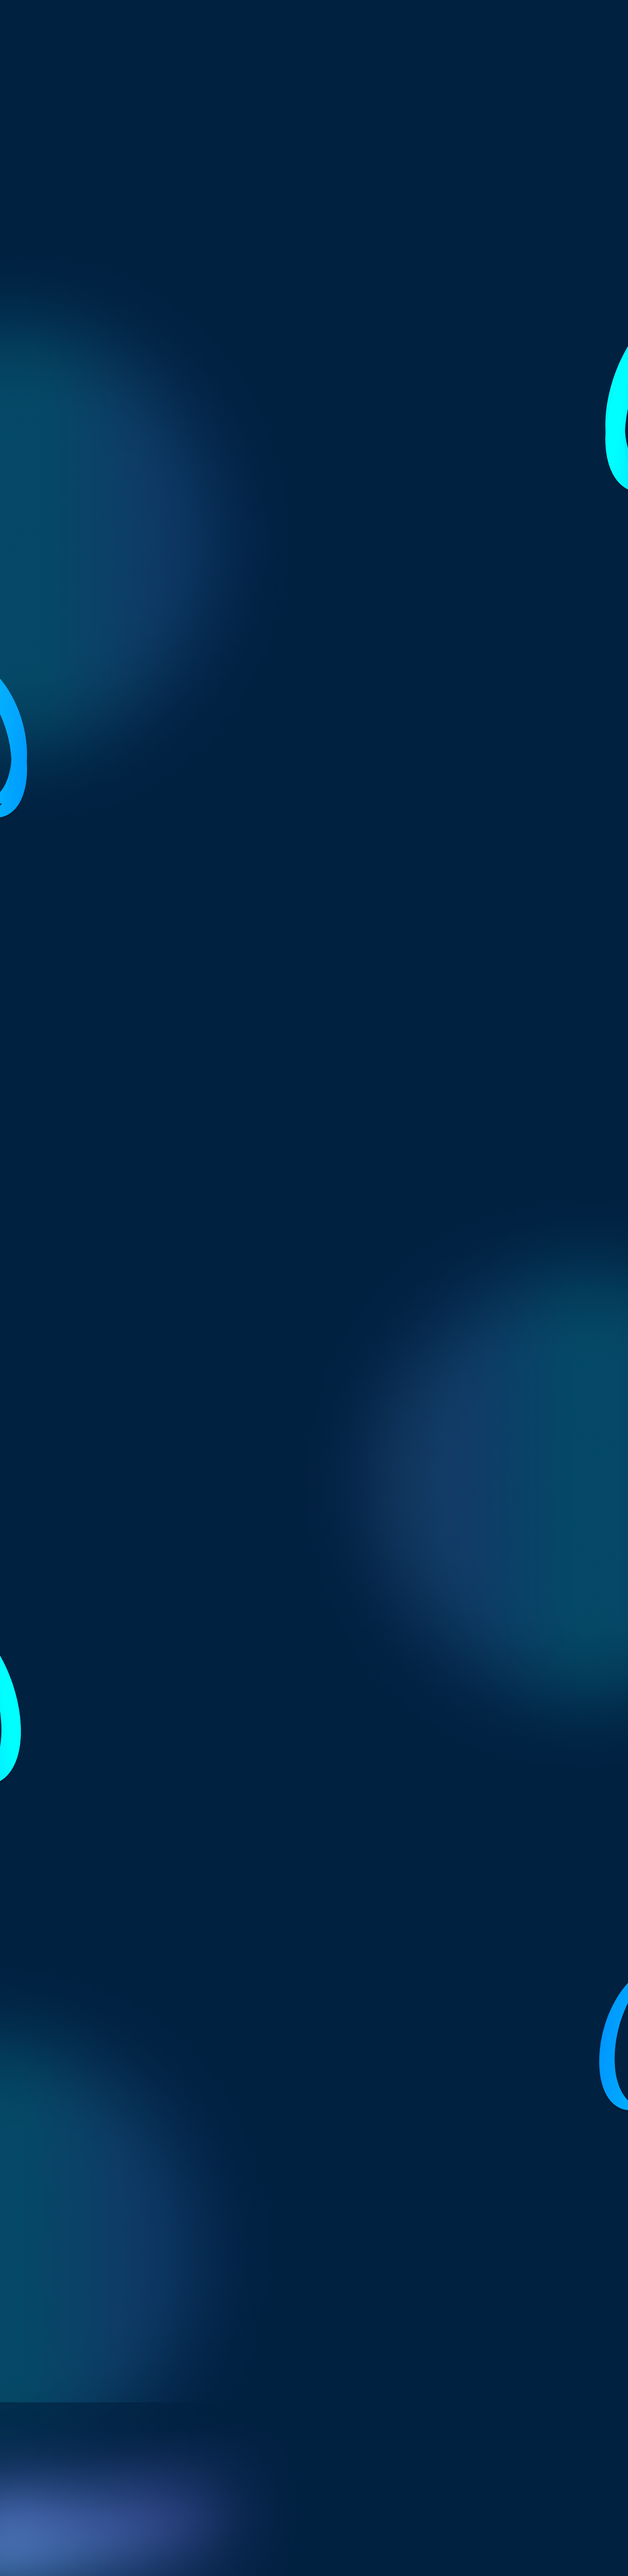
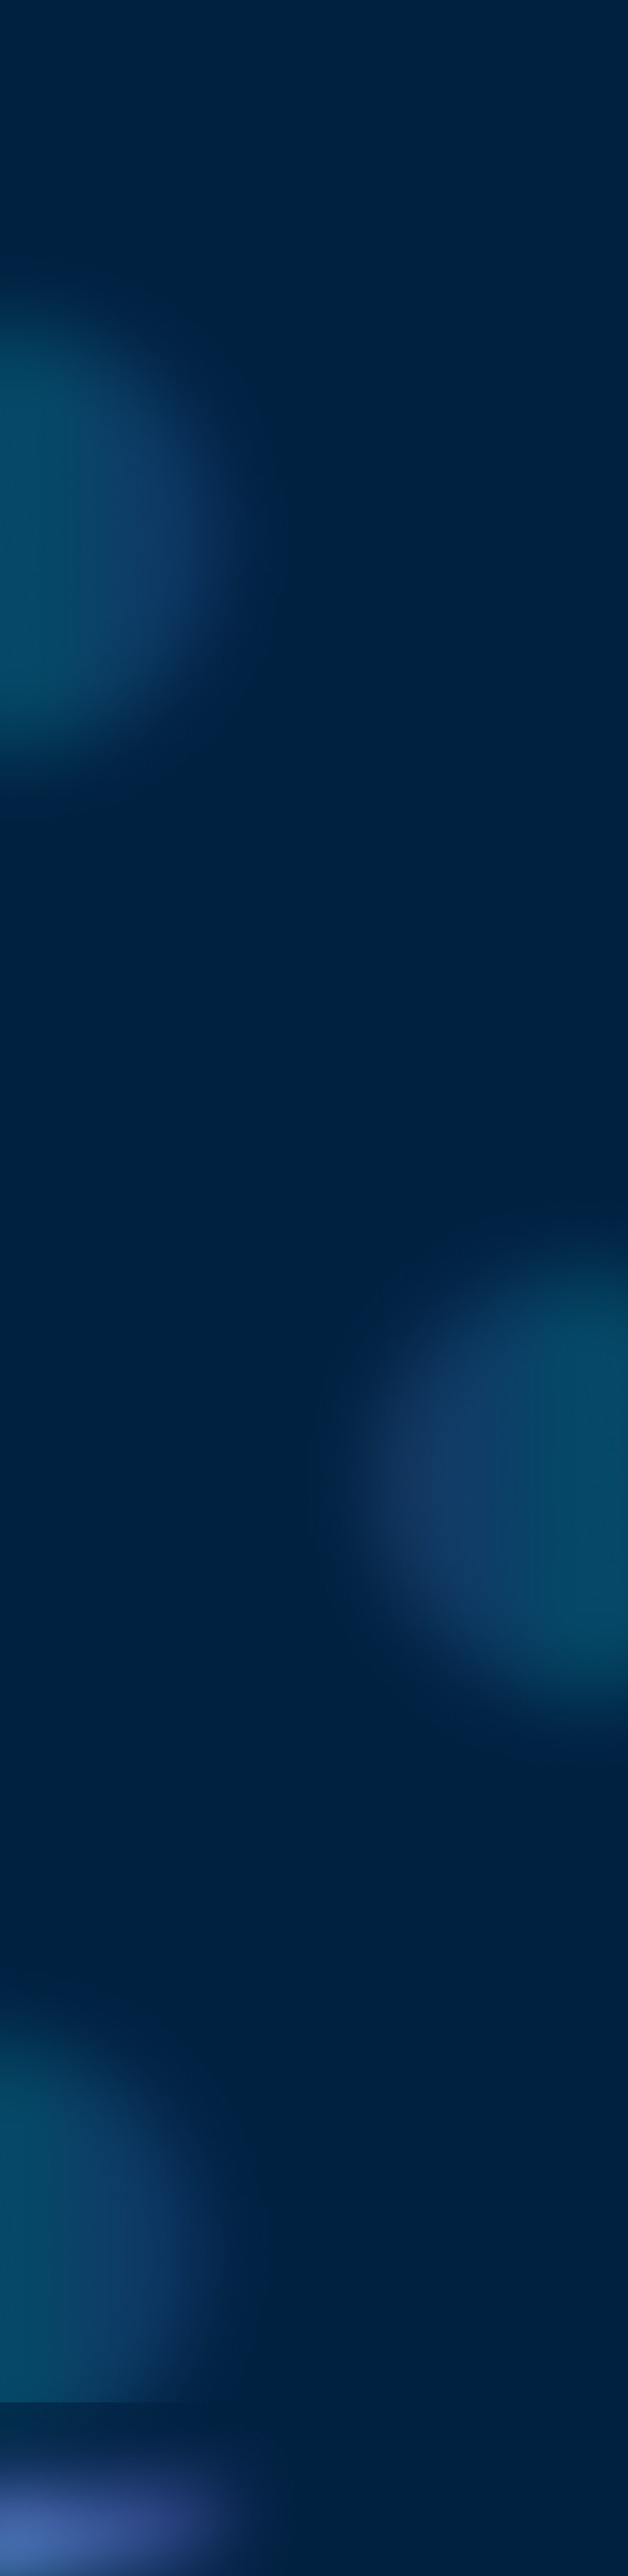
valos

diff --git a/src/components/global/Navbar.tsx b/src/components/global/Navbar.tsx
@@ -3,25 +3,27 @@ import React from "react";
 function Navbar() {
   return (
     <section>
-      <div className="flex gap-[60px] items-center justify-between mb-[140px]">
+      <div className="flex gap-[5%] items-center justify-between mb-[140px]">
         <div
-          className="bg-no-repeat bg-cover min-w-[570px] flex gap-36 pt-5 pb-4"
+          className="bg-no-repeat bg-cover w-[40%] flex gap-[20%] pt-5 pb-4"
           style={{backgroundImage: `url('/picture/Vector.png')`}}
         >
-          <div className="ml-[138px] text-xl font-semibold text-white">
+          <div className="ml-[20%] text-xl font-semibold text-white">
             Services
           </div>
           <div className=" text-xl font-semibold text-white">Technology</div>
         </div>
-        <div className="mt-8">
-          <img src="/picture/Vector.svg" alt="" />
+        <div className="mt-8 w-[13%] flex justify-center">
+          <img className="" src="/picture/Vector.svg" alt="" />
         </div>
         <div
-          className="bg-no-repeat bg-cover min-w-[590px] flex gap-36 pt-5 pb-4 justify-end"
+          className="bg-no-repeat bg-cover w-[42%] flex gap-[20%] pt-5 pb-4 justify-end"
           style={{backgroundImage: `url('/picture/Vector (1).png')`}}
         >
           <div className="text-xl font-semibold text-white">Request</div>
-          <div className="mr-36 text-xl font-semibold text-white">Contact</div>
+          <div className="mr-[20%] text-xl font-semibold text-white">
+            Contact
+          </div>
         </div>
       </div>
     </section>

diff --git a/src/app/home/Header.tsx b/src/app/home/Header.tsx
@@ -32,17 +32,20 @@ function Header() {
       <div className="text-xl font-medium text-white bg-sky-500 py-3 px-10 rounded-lg font-manrope max-w-[172px] m-auto mb-[102px]">
         Get in touch
       </div>
-      <div className="flex flex-wrap gap-5 justify-between mb-48">
+      <div className="flex lg:flex-row gap-4 justify-between mb-48">
         {networkCard.map((item, index) => (
           <div
             key={index}
-            className="flex flex-col items-center py-6 px-7 bg-neutral-500/20 min-w-[220px] border border-sky-500 rounded-3xl"
+            className="flex flex-col items-center relative z-0 w-full h-full min-w-[185px]"
           >
-            <div className="mb-3">
-              <img src={item.pic} alt="" />
-            </div>
-            <div className="text-3xl font-semibold text-sky-500">
-              {item.title}
+            <span className="absolute -inset-[1px] -z-10 bg-md rounded-[30px]" />
+            <div className="bg-[#1A3453] py-6 px-7 w-full flex flex-col items-center rounded-[30px]">
+              <div className="mb-3">
+                <img src={item.pic} alt="" />
+              </div>
+              <div className="text-3xl font-semibold text-sky-500">
+                {item.title}
+              </div>
             </div>
           </div>
         ))}

diff --git a/tailwind.config.ts b/tailwind.config.ts
@@ -47,6 +47,7 @@ const config: Config = {
     },
     backgroundImage: {
       sm: "linear-gradient(270deg, rgba(68, 132, 255, 0.20) -0.55%, rgba(68, 176, 255, 0.20) 22.86%, rgba(0, 255, 255, 0.20) 48.36%, rgba(68, 165, 255, 0.20) 73.33%, rgba(125, 170, 255, 0.20) 99.34%)",
+      md: "linear-gradient(#0072FF, #00FFFF)",
       100: "url('/picture/Group 2049.png')",
     },
     container: {
@@ -58,7 +59,7 @@ const config: Config = {
     screens: {
       sm: "600px",
       md: "768px",
-      lg: "1020px",
+      lg: "1032px",
       xl: "1472px",
     },
   },

diff --git a/src/app/home/Footer.tsx b/src/app/home/Footer.tsx
@@ -3,7 +3,7 @@ import React from "react";
 function Footer() {
   return (
     <section className="container">
-      <div className="flex gap-[60px] items-center justify-between pt-16 pb-9">
+      <div className="flex gap-8 items-center justify-between pt-16 pb-9">
         <div>
           <div className="mb-6">
             <img src="/picture/logo valos.svg" alt="" />

diff --git a/src/app/page.tsx b/src/app/page.tsx
@@ -6,7 +6,7 @@ import Footer from "./home/Footer";
 
 export default function Home() {
   return (
-    <div className="bg-cyan-950 bg-100 bg-no-repeat bg-cover">
+    <div className="bg-100 bg-no-repeat bg-cover">
       <Navbar />
       <Header />
       <Cards />
